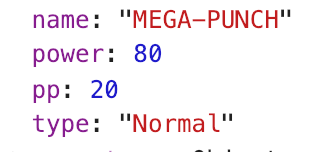
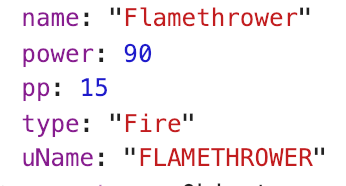
added standardMoveName to main.js which will remove hyphen from move name, buildMove object now contain an additional key for the name and uppercased name

diff --git a/src/main.js b/src/main.js
@@ -994,7 +994,8 @@ const buildMove = (move) => {
         })
         .then(data => {
             return {
-                name: data.name.toUpperCase(),
+                name: standardMoveName(data.name), 
+                uName: standardMoveName(data.name).toUpperCase(),
                 type: data.type.name[0].toUpperCase() + data.type.name.slice(1),
                 power: data.power,
                 pp: data.pp,
@@ -1037,6 +1038,15 @@ const loadPokedex = (limit, pokedex) => {
         })
 
 }
+
+const standardMoveName = (name) => {
+    let str = name;
+    if(str.includes('-')) {
+        const arr = str.split('-')
+        return standardMoveName(arr[0]) + ' ' + standardMoveName(arr[1]); 
+    }
+    return str[0].toUpperCase() + str.slice(1);
+};
 
 export {
     validate,

diff --git a/src/App.js b/src/App.js
@@ -35,6 +35,13 @@ class App extends Component {
         console.log('error loadingPokeDex: ', err)
       })
 
+      buildMove('flamethrower')
+      .then( data => {
+        console.log('data: ', data);
+      })
+      .catch( err => {
+        console.log('err: ', err);
+      })
   }
 
   componentDidUpdate(prevProps, prevState) {
